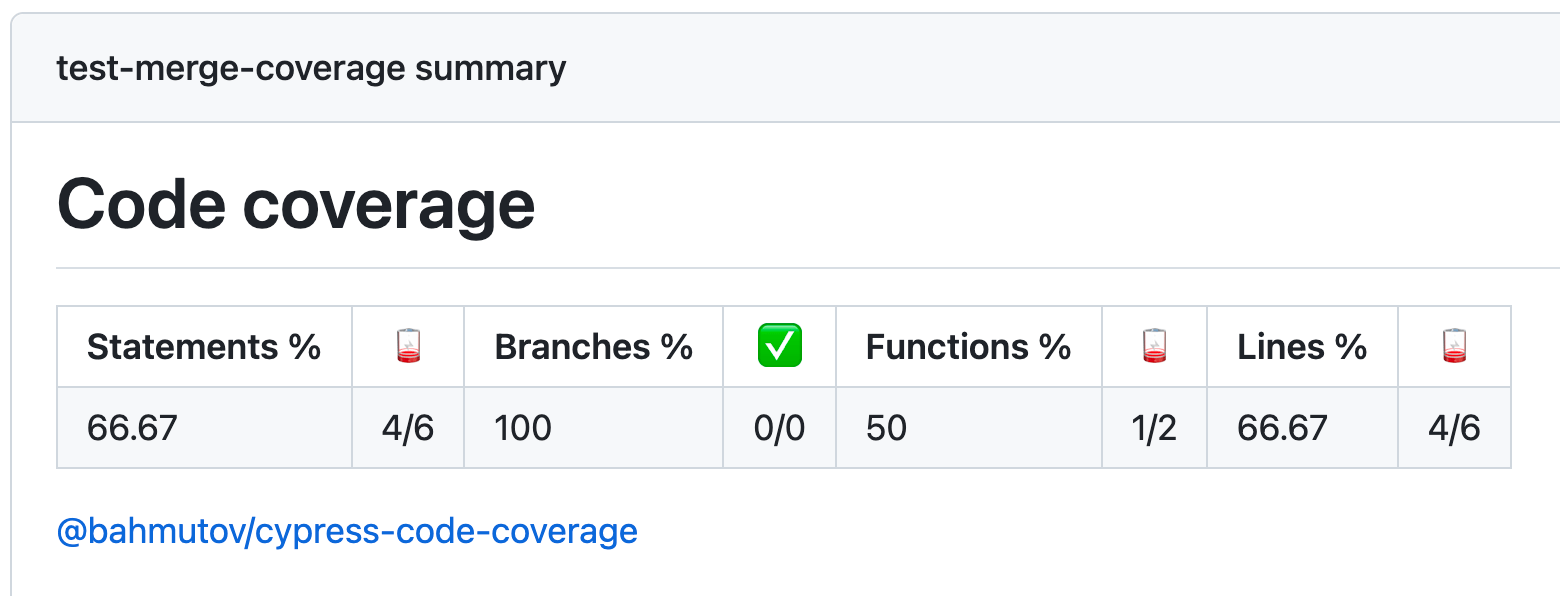
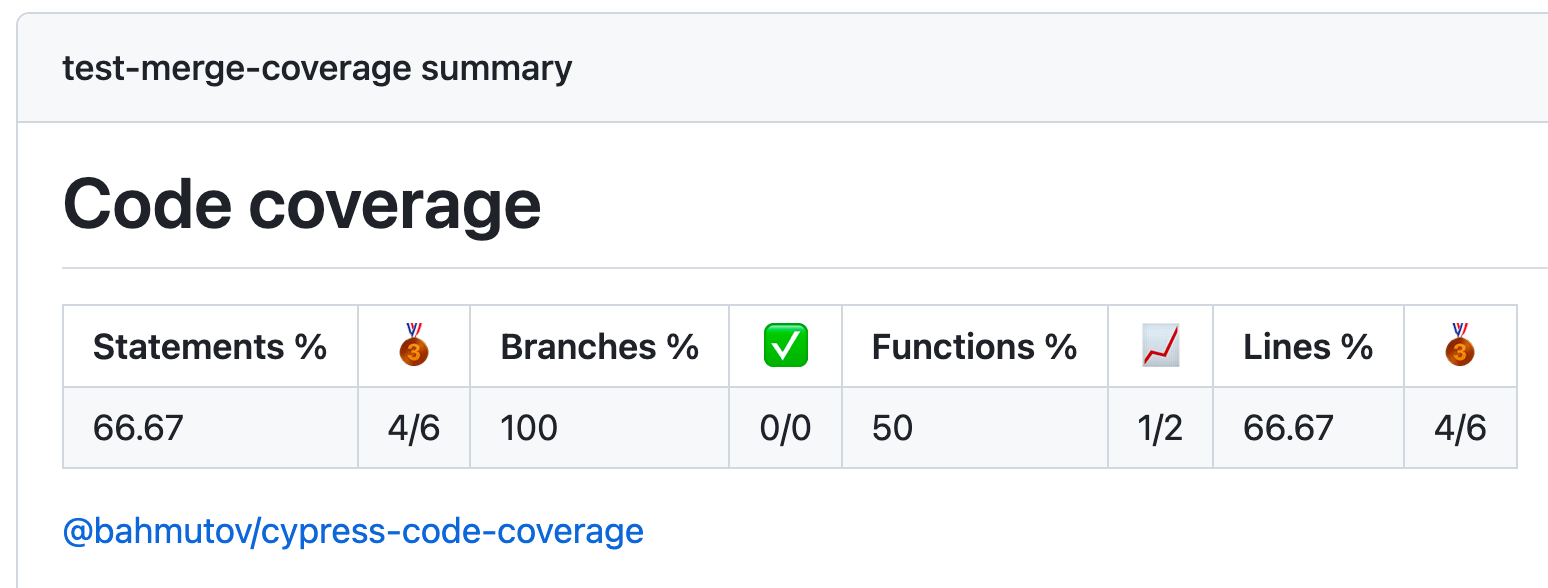
add image summary

diff --git a/README.md b/README.md
@@ -539,6 +539,21 @@ The coverage will be written into `.nyc_output` folder (which is automatically c
 
 When using this plugin with GitHub Actions, if reporting is enabled, then each job summary will include the current final percentages in the Actions summary report.
 
+![Summary table](./images/summary.png)
+
+The table headers emoji depend on the percentage coverage
+
+| Coverage % | Emoji |
+| ---------- | ----- |
+| >= 95      | ✅    |
+| >= 90      | 🏆    |
+| >= 80      | 🥇    |
+| >= 70      | 🥈    |
+| >= 60      | 🥉    |
+| >= 50      | 📈    |
+| >= 40      | ⚠    |
+| < 40       | 🪫     |
+
 ## Examples
 
 ### Internal examples
